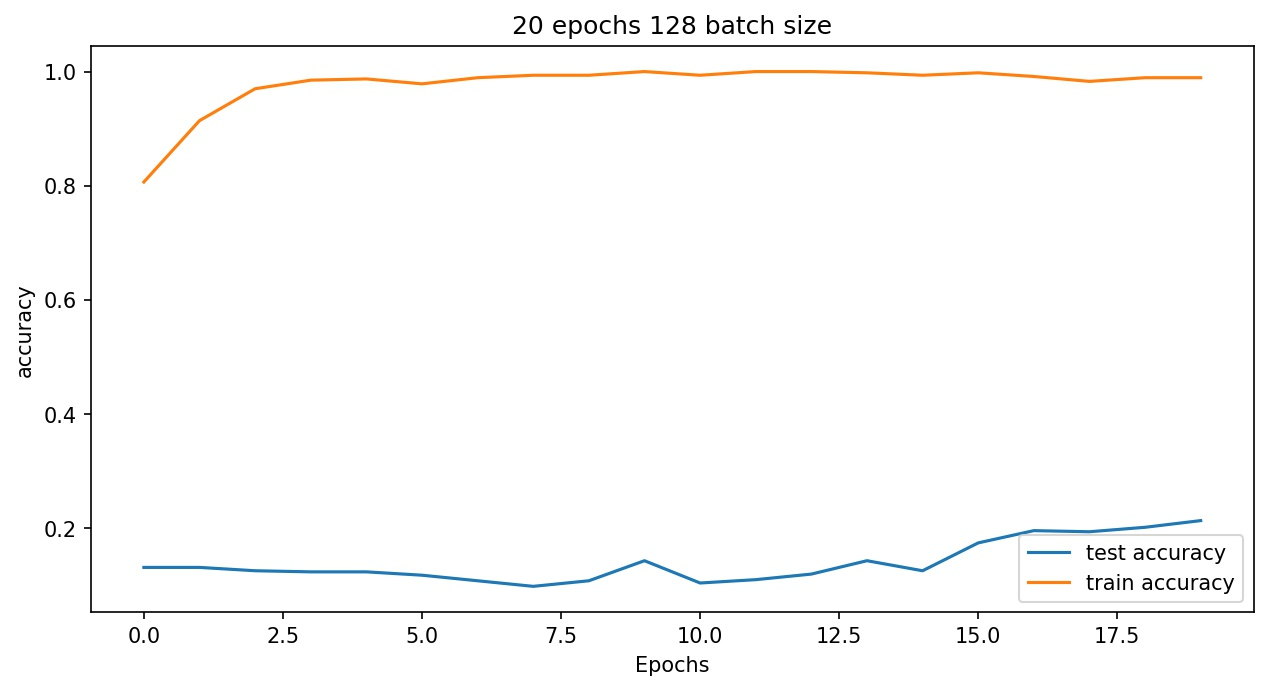
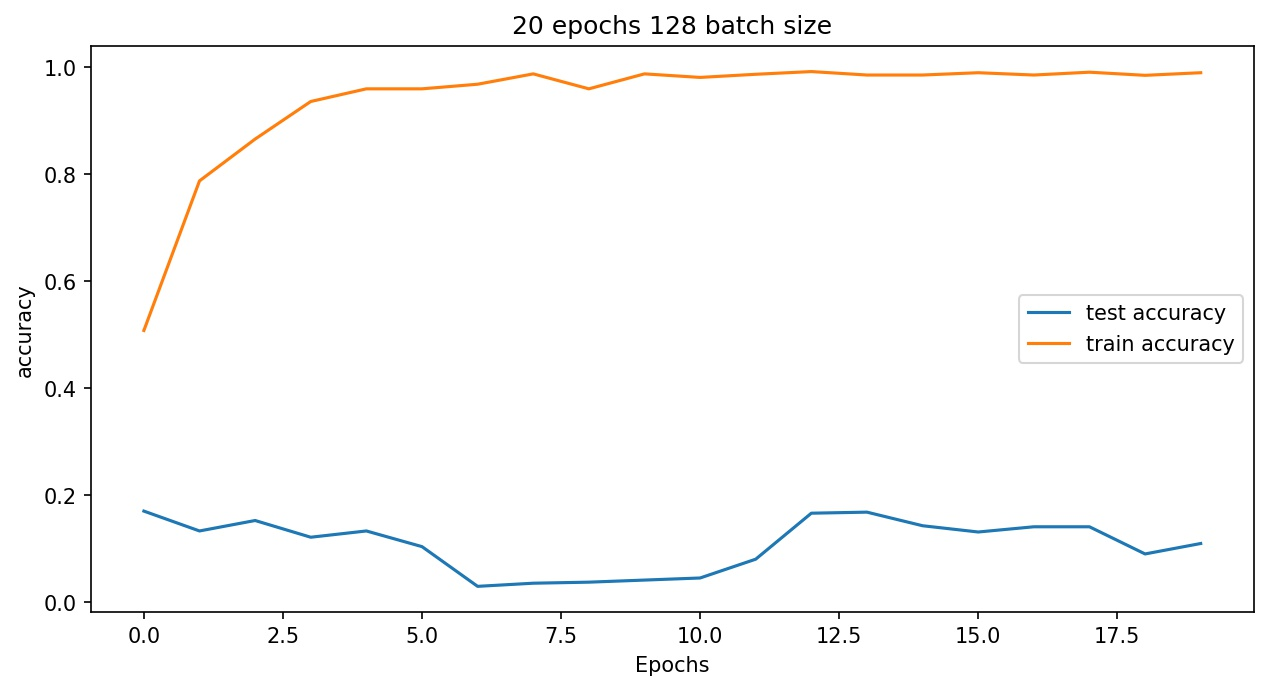
meilleur freeze

diff --git a/Partie2/trainModel.py b/Partie2/trainModel.py
@@ -81,8 +81,16 @@ for batch_size in batchs_size:
     print("[INFO] chargement fini.")
     
     # degelé toutes les couches sauf les premieres
-    for layer in model.layers[249:]:
-        layer.trainable = True
+    model.trainable = True
+    set_trainable = False
+    for layer in model.layers:
+        if layer.name == 'activation_253':
+            set_trainable = True
+        if set_trainable:
+            layer.trainable = True
+        else:
+            layer.trainable = False
+        print("layer {} is {}".format(layer.name, '+++trainable' if layer.trainable else '---frozen'))
     
     # compiler le nouveau model
     model.compile(loss='categorical_crossentropy', optimizer=Adam(learning_rate=0.001), metrics=['accuracy'])
@@ -98,7 +106,7 @@ for batch_size in batchs_size:
     plt.xlabel("Epochs")
     plt.ylabel("accuracy")
     plt.legend()
-    fig.savefig('NASNetMobile_{}_epoch_{}_batchsize.jpg'.format(epochs, batch_size), bbox_inches='tight', dpi=150)
+    fig.savefig('NASNetMobile_{}_epoch_{}_batchsize2.jpg'.format(epochs, batch_size), bbox_inches='tight', dpi=150)
 
 """
 # une fois le batch size trouvé ont le test sur 100 epoch
